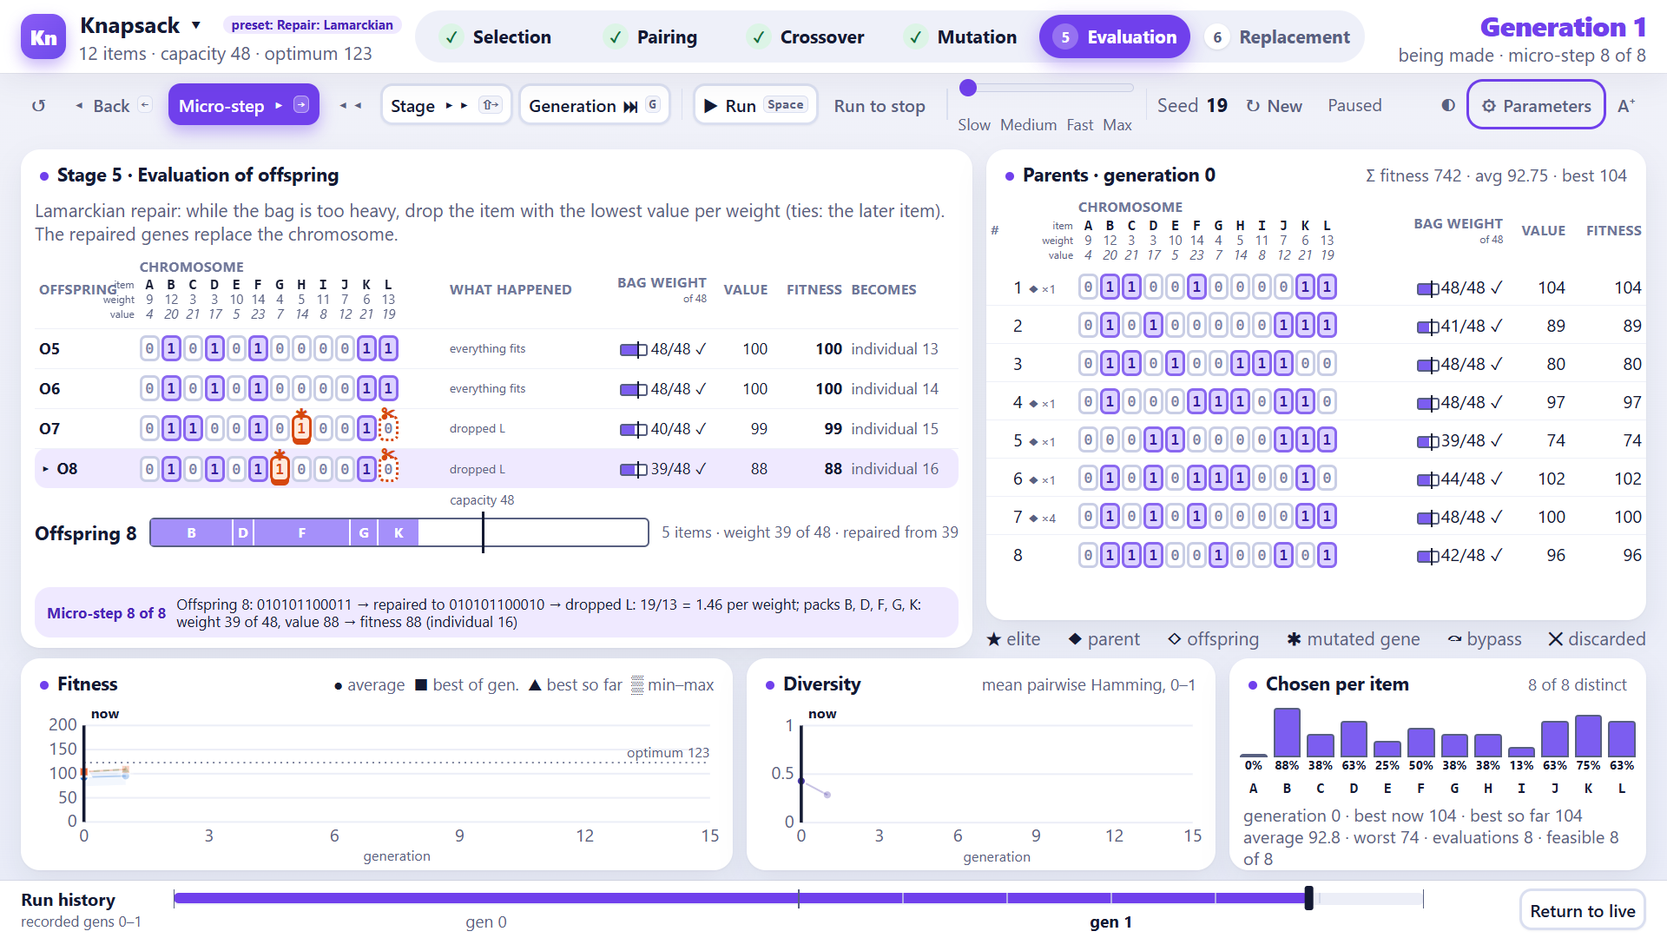
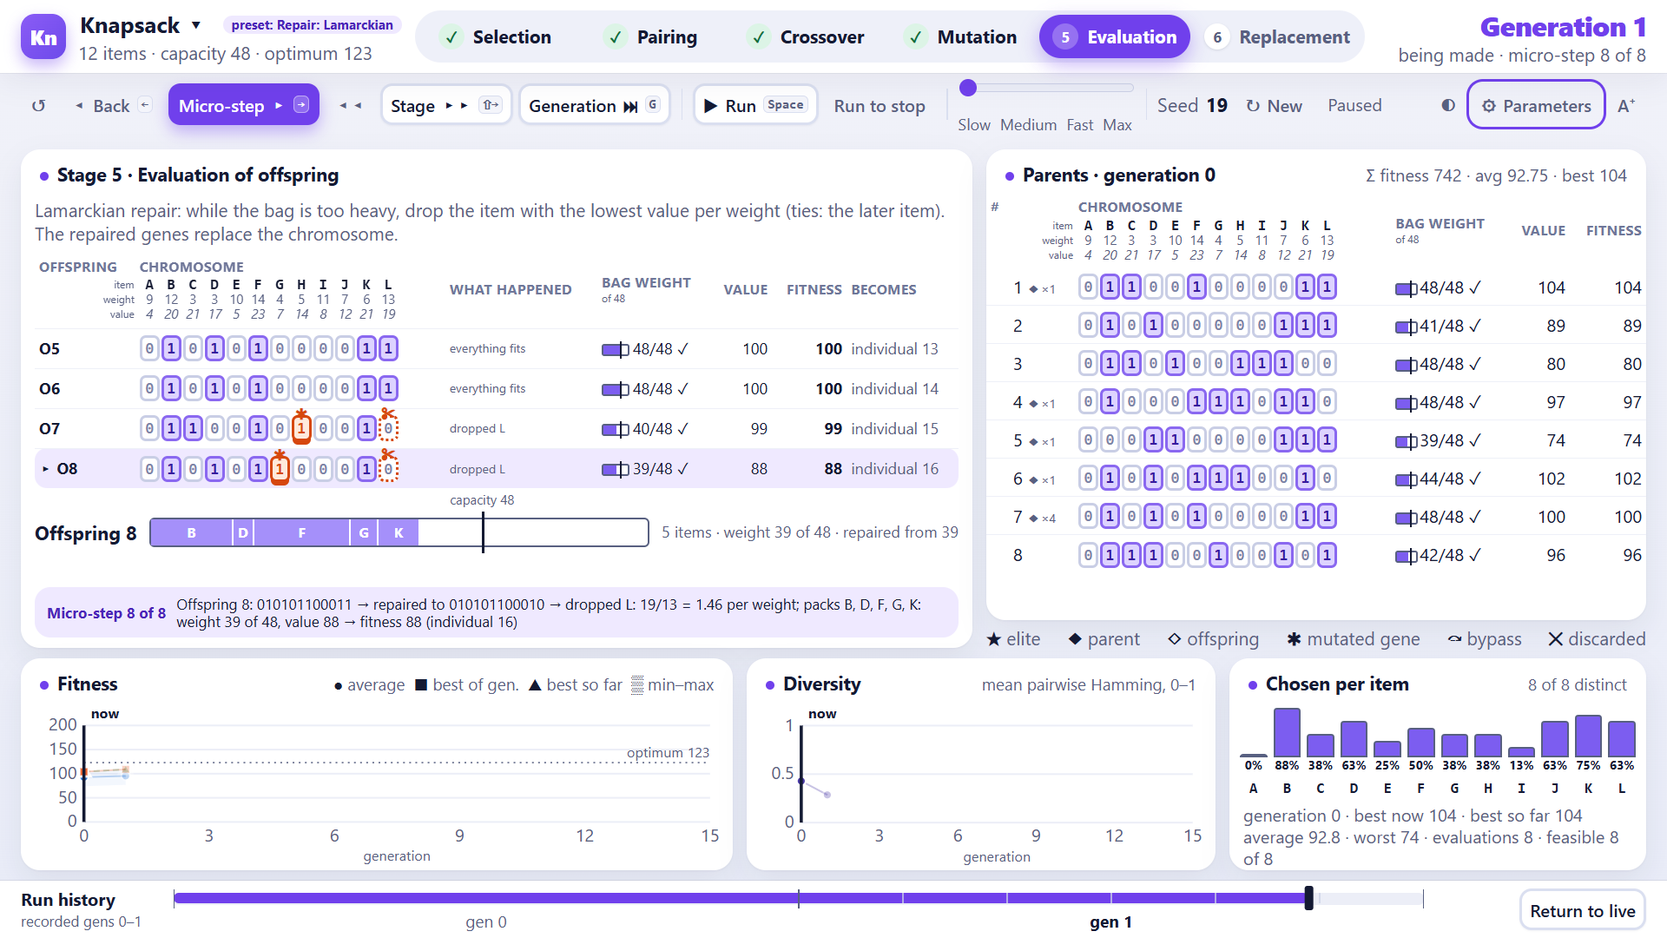
Projector fixes from the instructor's review: mutation card spacing, aligned weight meters, stacked bar scale, header overlap, wide tables with heavy overweight (milestone 3, ticket 17)

diff --git a/e2e/knapsack-a11y.spec.ts b/e2e/knapsack-a11y.spec.ts
@@ -10,10 +10,10 @@ const url = pathToFileURL(resolve('dist/index.html')).href;
 const entry = entryOf('knapsack')!;
 const base = entry.defaultOptions() as KnapsackOptions;
 
-const setupOf = (handling: Handling, o: { items?: number; params?: GaParams; seed?: number } = {}) => {
+const setupOf = (handling: Handling, o: { items?: number; params?: GaParams; seed?: number; rho?: number } = {}) => {
   const items = Array.from({ length: o.items ?? 12 }, (_, k) => base.items[k % 12]!);
   const total = items.reduce((t, i) => t + i.weight, 0);
-  const options: KnapsackOptions = { ...base, handling, items, capacity: o.items && o.items !== 12 ? Math.floor(total / 2) : base.capacity };
+  const options: KnapsackOptions = { ...base, handling, rho: o.rho ?? base.rho, items, capacity: o.items && o.items !== 12 ? Math.floor(total / 2) : base.capacity };
   const problem = entry.create(options);
   return { options, problem, setup: { problem, init: entry.defaults.init }, params: o.params ?? entry.defaults.params, seed: o.seed ?? 42 };
 };
@@ -206,6 +206,130 @@ for (const [width, height] of [
       for (let k = 0; k < 2 * 40; k++) {
         await page.keyboard.press('ArrowRight');
         expect(await outside(), `micro-step ${k + 1}`).toEqual([]);
+      }
+    });
+  }
+}
+
+type Box = { left: number; right: number; top: number; bottom: number };
+const meet = (a: Box, b: Box) => a.left < b.right && b.left < a.right && a.top < b.bottom && b.top < a.bottom;
+const gotoStage = async (page: Page, stage: number) => {
+  await page.keyboard.press('ArrowRight');
+  for (let k = 0; k < stage; k++) await page.keyboard.press('Shift+ArrowRight');
+};
+
+for (const [width, height] of [
+  [1920, 1080],
+  [1366, 768],
+] as const) {
+  test(`at ${width}×${height} in projector mode, a gene's ✱ in the mutation cards does not run into the draw printed under the gene above it`, async ({ page }) => {
+    await page.setViewportSize({ width, height });
+    const params: GaParams = { ...entry.defaults.params, mutation: { ...entry.defaults.params.mutation, probability: 0.3 } };
+    await open(page, setupOf('decoder', { params, seed: 4 }));
+    await page.getByRole('button', { name: 'Projector mode' }).click();
+    await gotoStage(page, 4);
+    await expect(page.getByRole('heading', { level: 2, name: /Mutation/ })).toBeVisible();
+    const clashes = await page.evaluate(() => {
+      const boxOf = (r: DOMRect) => ({ left: r.left, right: r.right, top: r.top, bottom: r.bottom });
+      const out: string[] = [];
+      let flips = 0;
+      for (const card of document.querySelectorAll('.mcard')) {
+        const unders = [...card.querySelectorAll('.under')].map((el) => boxOf(el.getBoundingClientRect()));
+        for (const bit of card.querySelectorAll('.bit.flip')) {
+          const r = bit.getBoundingClientRect();
+          const k = r.width / (bit as HTMLElement).offsetWidth; // the screen is scaled to fit the window
+          const star = { left: r.left + r.width / 2 - 9 * k, right: r.left + r.width / 2 + 9 * k, top: r.top - 18 * k, bottom: r.top };
+          if (!card.contains(bit) || unders.length === 0) continue;
+          flips++;
+          if (bit.closest('.crow')!.querySelector('.under') === null && unders.some((u) => u.left < star.right && star.left < u.right && u.top < star.bottom && star.top < u.bottom)) out.push(`${card.getAttribute('data-offspring')}`);
+        }
+      }
+      return { out, flips };
+    });
+    expect(clashes.flips).toBeGreaterThan(0);
+    expect(clashes.out).toEqual([]);
+  });
+
+  test(`at ${width}×${height}, the weight meters in the population table line up whatever the text beside them says`, async ({ page }) => {
+    await page.setViewportSize({ width, height });
+    await open(page, setupOf('penalty', { rho: 0, seed: 9 }));
+    await page.getByRole('button', { name: 'Projector mode' }).click();
+    for (let g = 0; g < 8; g++) await page.keyboard.press('g');
+    const lefts = await page.locator('.tablewrap tbody tr [data-col="bag weight"] .capbar').evaluateAll((els) => els.map((el) => Math.round(el.getBoundingClientRect().left)));
+    const texts = await page.locator('.tablewrap tbody tr [data-col="bag weight"]').allTextContents();
+    expect(lefts.length).toBe(8);
+    expect(new Set(texts.map((t) => t.trim().length)).size, 'the test needs texts of different lengths').toBeGreaterThan(1);
+    expect(new Set(lefts).size).toBe(1);
+  });
+
+  test(`at ${width}×${height}, with ρ = 0 and a bag of 80 against a capacity of 48, the stacked bar stays inside its track and clear of its caption`, async ({ page }) => {
+    await page.setViewportSize({ width, height });
+    const chromosomes = ['111101111011', '111111111111', '011000000000'];
+    const s = setupOf('penalty', { rho: 0 });
+    await page.goto('about:blank');
+    await page.goto(url + encodeConfig(configOf({ ...s.setup, init: { kind: 'explicit', chromosomes } }, s.params, 3, 'knapsack', s.options)));
+    await page.getByRole('button', { name: 'Projector mode' }).click();
+    await gotoStage(page, 4);
+    const seen: number[] = [];
+    for (let k = 0; k < 8; k++) {
+      await page.keyboard.press('ArrowRight');
+      const geometry = await page.evaluate(() => {
+        const bar = document.querySelector('.bigbar');
+        if (!bar) return null;
+        const track = bar.getBoundingClientRect();
+        const segs = [...bar.querySelectorAll('.seg')].map((el) => el.getBoundingClientRect());
+        const caption = document.querySelector('.bagwrap .legend2')!.getBoundingClientRect();
+        return { overrun: Math.max(0, ...segs.map((r) => r.right - track.right)), captionClear: caption.left >= track.right - 1 };
+      });
+      if (!geometry) continue;
+      seen.push(Number(await page.locator('[data-testid="bag-bar"]').getAttribute('data-weight')));
+      expect(geometry.overrun).toBeLessThanOrEqual(1);
+      expect(geometry.captionClear).toBe(true);
+    }
+    expect(Math.max(...seen), 'the test needs a bag heavier than 72').toBeGreaterThan(72);
+  });
+
+  test(`at ${width}×${height}, in the evaluation table the first column's heading does not sit on the item row's labels`, async ({ page }) => {
+    await page.setViewportSize({ width, height });
+    await open(page, setupOf('repair-lamarckian', { seed: 19 }));
+    await page.getByRole('button', { name: 'Projector mode' }).click();
+    await gotoStage(page, 5);
+    await expect(page.getByRole('heading', { level: 2, name: /Evaluation/ })).toBeVisible();
+    const boxes = await page.evaluate(() => {
+      const th = document.querySelector('.etable thead th:first-child')!;
+      const range = document.createRange();
+      range.selectNodeContents(th.firstChild!);
+      const box = (r: DOMRect) => ({ left: r.left, right: r.right, top: r.top, bottom: r.bottom });
+      return { heading: box(range.getBoundingClientRect()), labels: [...document.querySelectorAll('.etable .itemhdr .lbl i')].map((el) => box(el.getBoundingClientRect())) };
+    });
+    expect(boxes.labels.length).toBe(3);
+    for (const label of boxes.labels) expect(meet(boxes.heading, label), 'heading and a label overlap').toBe(false);
+  });
+}
+
+for (const [width, height] of [
+  [1920, 1080],
+  [1366, 768],
+] as const) {
+  for (const [handling, items] of [['penalty', 12] as const, ['penalty', 20] as const]) {
+    test(`at ${width}×${height} in projector mode, ${handling} with ρ = 0 and ${items} items, where nearly every bag is far overweight: no table is wider than its panel at any stage of eight generations`, async ({ page }) => {
+      await page.setViewportSize({ width, height });
+      await open(page, setupOf(handling, { items, rho: 0, seed: 9 }));
+      await page.getByRole('button', { name: 'Projector mode' }).click();
+      const wide = () =>
+        page.evaluate(() =>
+          [...document.querySelectorAll('.tablewrap, .mwrap')]
+            .filter((el) => el.scrollWidth > el.clientWidth + 1 || [...el.querySelectorAll('th, td')].some((cell) => cell.getBoundingClientRect().right > el.getBoundingClientRect().right + 1))
+            .map((el) => `${el.className} ${el.scrollWidth}>${el.clientWidth}`),
+        );
+      for (let g = 0; g < 8; g++) {
+        await page.keyboard.press('g');
+        expect(await wide(), `generation ${g + 1}`).toEqual([]);
+      }
+      await page.keyboard.press('ArrowRight');
+      for (let stage = 0; stage < 6; stage++) {
+        await page.keyboard.press('Shift+ArrowRight');
+        expect(await wide(), `stage ${stage + 1}`).toEqual([]);
       }
     });
   }

diff --git a/src/ui/StackedBag.svelte b/src/ui/StackedBag.svelte
@@ -8,19 +8,20 @@
    */
   let { bag, outcome, label, was }: { bag: BagInfo; outcome: BagOutcome; label: string; was?: number } = $props();
 
-  const scale = $derived(bag.capacity * 1.5);
+  // where a bag may be overweight the bar holds all the items, so the capacity mark stays put and nothing runs past the end
+  const scale = $derived(bag.mayExceed ? Math.max(bag.capacity * 1.5, bag.items.reduce((t, i) => t + i.weight, 0)) : bag.capacity * 1.5);
   const segments = $derived.by(() => {
     let x = 0;
     const out: { item: number; from: number; to: number; over: boolean }[] = [];
     outcome.packed.forEach((packed, i) => {
       if (!packed) return;
       const from = x;
-      const to = x + bag.items[i]!.weight;
+      const to = Math.min(x + bag.items[i]!.weight, scale);
       const inside = Math.min(to, bag.capacity) - from;
       if (inside > 0) out.push({ item: i, from, to: from + inside, over: false });
       const outside = to - Math.max(from, bag.capacity);
       if (outside > 0) out.push({ item: i, from: Math.max(from, bag.capacity), to, over: true });
-      x = to;
+      x += bag.items[i]!.weight;
     });
     return out;
   });
@@ -37,7 +38,6 @@
     <span class="captxt" style="left:{(bag.capacity / scale) * 100}%">capacity {bag.capacity}</span>
   </div>
   <span class="legend2">
-    {letters.length === 0 ? 'nothing packed' : `${letters.length} ${letters.length === 1 ? 'item' : 'items'}`} · weight {outcome.weight} of {bag.capacity}{#if outcome.excess > 0}
-      · <b>{outcome.excess} over (hatched)</b>{/if}{#if was !== undefined}{' · '}repaired from {was}{/if}
+    {letters.length === 0 ? 'nothing packed' : `${letters.length} ${letters.length === 1 ? 'item' : 'items'}`} · weight {outcome.weight} of {bag.capacity}{#if outcome.excess > 0}{' · '}<b>{outcome.excess} over (hatched)</b>{/if}{#if was !== undefined}{' · '}repaired from {was}{/if}
   </span>
 </div>

diff --git a/src/ui/app.css b/src/ui/app.css
@@ -661,7 +661,7 @@ table.tight .capbar { display:none; }
 .itemrow.dense b { font-size:13px; }
 .itemrow.dense u, .itemrow.dense s { font-size:11px; }
 .pcard .parent { flex-wrap:wrap; }
-.tablewrap:has(.bit.dense) th, .tablewrap:has(.bit.dense) td { padding-left:3px; padding-right:3px; }
+.tablewrap:has(.bit.dense) th, .tablewrap:has(.bit.dense) td { padding-left:2px; padding-right:2px; }
 .etable:has(.bit.dense) th, .etable:has(.bit.dense) td { padding-left:3px; padding-right:3px; }
 .tablewrap:has(.parentmark) .capbar { width:26px; }
 .tablewrap .parentmark { margin-left:3px; font-size:14px; }
@@ -673,3 +673,15 @@ table.tight .capbar { display:none; }
 .etable:has(.bit.dense) .capbar { display:none; }
 .etable:has(.bit.dense) td.why { font-size:13px; }
 .etable:has(.bit.dense) td[data-col="id"] { font-size:13px; }
+
+/* the weight column: the meter always starts at the same place, whatever the text after it says ("54/48 ✗ +6" is shorter than "80/48 ✗ +32") */
+table:not(.tight) th.meter, table:not(.tight) td.meter { text-align:left; }
+/* the ✱ over a mutated gene in the result row needs the room the draw printed under the gene above would otherwise take */
+.mcard .crow.res { margin-top:20px; }
+/* the first heading of a table with the item row: at the top, clear of the item / weight / value labels beside the cells */
+table:has(.itemhdr) thead th:first-child { vertical-align:top; }
+/* parent marks and a penalty column together leave no room for the small bars (the figures beside them say the same) */
+.tablewrap:has(.parentmark):has([data-col="penalty"]) .capbar { display:none; }
+/* twenty items and a heavy overweight: the long "over by 120 (0 × 120)" may wrap rather than push the table out of its panel */
+.etable:has(.bit.dense) td.why { white-space:normal; max-width:130px; line-height:1.15; }
+.etable:has(.bit.dense) th.why { white-space:normal; width:90px; }

diff --git a/src/ui/knapsack-bars.test.ts b/src/ui/knapsack-bars.test.ts
@@ -65,6 +65,23 @@ describe('the stacked bag', () => {
     expect(attr(markup, 'data-excess')).toBe(1);
   });
 
+  test('where overweight bags are allowed the bar is as long as all the items together, so even the heaviest bag stays inside it and the capacity mark never moves', () => {
+    const roomy: BagInfo = { ...bag, mayExceed: true };
+    const total = builtInKnapsack.items.reduce((t, i) => t + i.weight, 0); // 97
+    const markup = draw('ABCDEFGHIJKL', { bag: roomy }); // everything: weight 97, 49 over
+    const s = segments(markup);
+    expect(s.map((x) => x.left + x.width).reduce((x, y) => Math.max(x, y))).toBeCloseTo(100, 6);
+    expect(s.find((x) => x.over)!.left).toBeCloseTo((48 / total) * 100, 6);
+    expect(markup).toContain(`left:${((48 / total) * 100).toString().slice(0, 6)}`);
+    for (const letters of ['B', 'ABEFG', 'ACDFGHIKL']) expect(draw(letters, { bag: roomy })).toContain(`left:${((48 / total) * 100).toString().slice(0, 6)}`);
+  });
+
+  test('where they are not, a bag can only be as heavy as the capacity and the bar stays one and a half times the capacity; a bag heavier than the bar is cut off at its end rather than drawn outside it', () => {
+    const heavy = draw('ABCDEFGHIJKL'); // the bag of this test allows no excess, but is given one: the bar must not be overrun
+    expect(Math.max(...segments(heavy).map((x) => x.left + x.width))).toBeLessThanOrEqual(100.000001);
+    expect(draw('B')).toContain('left:66.66');
+  });
+
   test('says what it is in words: how many items, the weight against the capacity, and what repair started from', () => {
     expect(draw('')).toContain('nothing packed');
     expect(draw('B')).toContain('1 item');

diff --git a/src/ui/PopulationPanel.svelte b/src/ui/PopulationPanel.svelte
@@ -36,7 +36,7 @@
           <th scope="col">#</th>
           <th scope="col">Chromosome<TargetRow /><ItemRow /></th>
           {#each columns as { column } (column.header)}
-            <th scope="col" class="num">{column.header}{#if column.note}<span class="colnote">{column.note}</span>{/if}</th>
+            <th scope="col" class="num" class:meter={column.meter}>{column.header}{#if column.note}<span class="colnote">{column.note}</span>{/if}</th>
           {/each}
           {#if showSelection}
             <th scope="col" class="num">Weight</th>
@@ -51,7 +51,7 @@
             <td data-col="id"><span class="sym" title={row.elite ? 'Elite: carried over unchanged' : undefined}>{row.elite ? '★' : ''}</span>{row.id}{#if knapsack && row.parentCount}<span class="parentmark" title="selected as a parent {row.parentCount} {row.parentCount === 1 ? 'time' : 'times'}" data-col="parent"><span class="sym" aria-hidden="true">◆</span>×{row.parentCount}</span>{/if}</td>
             <td><Bits chromosome={row.chromosome} small /></td>
             {#each columns as { column, c } (column.header)}
-              <td class="num" data-col={column.header.toLowerCase()}>{#if row.meters?.[c]}<CapacityBar value={row.meters[c]!.value} limit={row.meters[c]!.limit} /> {/if}{row.cells[c]}</td>
+              <td class="num" class:meter={row.meters?.[c]} data-col={column.header.toLowerCase()}>{#if row.meters?.[c]}<CapacityBar value={row.meters[c]!.value} limit={row.meters[c]!.limit} /> {/if}{row.cells[c]}</td>
             {/each}
             {#if showSelection}
               <td class="num" data-col="weight">{row.weight ?? '—'}</td>

diff --git a/src/ui/EvaluationView.svelte b/src/ui/EvaluationView.svelte
@@ -27,9 +27,9 @@
         <tr>
           <th scope="col">Offspring</th>
           <th scope="col">Chromosome<TargetRow /><ItemRow /></th>
-          {#if model.explains}<th scope="col">What happened</th>{/if}
-          {#each model.columns as column (column.header)}
-            <th scope="col" class="num">{column.header}{#if column.note}<span class="colnote">{column.note}</span>{/if}</th>
+          {#if model.explains}<th scope="col" class="why">What happened</th>{/if}
+          {#each model.columns as column, c (column.header)}
+            <th scope="col" class="num" class:meter={model.rows.some((r) => r.meters?.[c])}>{column.header}{#if column.note}<span class="colnote">{column.note}</span>{/if}</th>
           {/each}
           <th scope="col">Becomes</th>
         </tr>
@@ -42,7 +42,7 @@
             {#if row.revealed}
               {#if model.explains}<td class="why" data-col="what happened">{row.why?.summary}</td>{/if}
               {#each model.columns as column, c (column.header)}
-                <td class="num" class:strong={c === model.columns.length - 1} data-col={column.header.toLowerCase()}>{#if row.meters?.[c]}<CapacityBar value={row.meters[c]!.value} limit={row.meters[c]!.limit} /> {/if}{row.cells?.[c]}</td>
+                <td class="num" class:meter={row.meters?.[c]} class:strong={c === model.columns.length - 1} data-col={column.header.toLowerCase()}>{#if row.meters?.[c]}<CapacityBar value={row.meters[c]!.value} limit={row.meters[c]!.limit} /> {/if}{row.cells?.[c]}</td>
               {/each}
               <td data-col="id">individual {row.id}</td>
             {:else}

diff --git a/src/ui/PopulationEditor.svelte b/src/ui/PopulationEditor.svelte
@@ -20,7 +20,7 @@
     bind:value={text}
   ></textarea>
   <table aria-label="Hand-edited population">
-    <thead><tr><th scope="col">#</th><th scope="col">Chromosome<ItemRow /></th>{#each problem.columns as column (column.header)}<th scope="col" class="num">{column.header}{#if column.note}<span class="colnote">{column.note}</span>{/if}</th>{/each}</tr></thead>
+    <thead><tr><th scope="col">#</th><th scope="col">Chromosome<ItemRow /></th>{#each problem.columns as column (column.header)}<th scope="col" class="num" class:meter={column.meter}>{column.header}{#if column.note}<span class="colnote">{column.note}</span>{/if}</th>{/each}</tr></thead>
     <tbody>
       {#each rows as row, k (k)}
         <tr class:bad={row.error !== undefined} data-row={k + 1}>
@@ -30,7 +30,7 @@
           {:else}
             <td><Bits chromosome={row.text} small /></td>
             {#each problem.columns as column, c (column.header)}
-              <td class="num" data-col={column.header.toLowerCase()}>{#if row.meters?.[c]}<CapacityBar value={row.meters[c]!.value} limit={row.meters[c]!.limit} /> {/if}{row.cells?.[c]}</td>
+              <td class="num" class:meter={row.meters?.[c]} data-col={column.header.toLowerCase()}>{#if row.meters?.[c]}<CapacityBar value={row.meters[c]!.value} limit={row.meters[c]!.limit} /> {/if}{row.cells?.[c]}</td>
             {/each}
           {/if}
         </tr>

diff --git a/src/ui/session.svelte.ts b/src/ui/session.svelte.ts
@@ -204,7 +204,7 @@ export function createSession(options: SessionOptions) {
     get bag(): BagInfo | undefined {
       void version;
       const p = run.setup.problem as Partial<KnapsackProblem>;
-      return p.outcomeOf && p.options ? { items: p.options.items, capacity: p.options.capacity, outcomeOf: p.outcomeOf.bind(p) } : undefined;
+      return p.outcomeOf && p.options ? { items: p.options.items, capacity: p.options.capacity, mayExceed: p.mayBeInfeasible === true, outcomeOf: p.outcomeOf.bind(p) } : undefined;
     },
     get problemEntry(): ProblemEntry {
       return entryOf(problemId)!;

diff --git a/e2e/app.spec.ts b/e2e/app.spec.ts
@@ -59,6 +59,7 @@ test('pressing Generation three times shows the engine’s population for genera
 });
 
 test('stepping by micro-step, by stage and by generation reaches the same screen', async ({ page, browser }) => {
+  test.slow(); // three browser pages and about a hundred key presses: over the default 20 s when the whole suite runs at once
   const reach = async (p: Page, step: string | RegExp) => {
     for (let n = 0; n < 200; n++) {
       if ((await title(p).textContent()) === 'Population · generation 2') return;

diff --git a/src/ui/bag-context.ts b/src/ui/bag-context.ts
@@ -11,6 +11,8 @@ export const bagContextKey = Symbol('knapsack');
 export interface BagInfo {
   readonly items: readonly KnapsackItem[];
   readonly capacity: number;
+  /** True when a chromosome's bag may weigh more than the capacity (the penalty method): bars then leave room for all the items. */
+  readonly mayExceed?: boolean;
   outcomeOf(chromosome: readonly number[]): BagOutcome;
 }
 

diff --git a/src/ui/MutationView.svelte b/src/ui/MutationView.svelte
@@ -41,7 +41,7 @@
             {#if !row.revealed}<span class="muted">not yet drawn</span>{/if}
           </div>
           {#if row.revealed}
-            <div class="crow">
+            <div class="crow res">
               <span class="who sub">result</span>
               <Bits chromosome={row.after!} small flipped={row.flipped} />
               {@render outcome(row)}

diff --git a/.scratch/milestone-3-knapsack/issues/17-rendered-review-m3.md b/.scratch/milestone-3-knapsack/issues/17-rendered-review-m3.md
@@ -1,6 +1,6 @@
 # 17 Rendered review and sign-off
 
-Status: awaiting instructor sign-off
+Status: awaiting instructor sign-off (second pass after review findings)
 Type: review (needs instructor)
 Blocked by: 14, 15, 16
 Spec: ../spec.md
@@ -46,3 +46,17 @@ The spec's "To decide" list now records the instance, the defaults and preset se
 ### For the instructor's walkthrough
 
 Open https://brokenpumpernickel.github.io/ea-playground/, choose Knapsack, switch on Projector mode, and step through one generation with the Micro-step button (especially stages 5 and 6 under Repair (Lamarckian) and Penalty). Report anything illegible from the back of the room, in particular the smaller narration line at the bottom of the stage panel. Issues you find will be filed as tickets in this folder.
+
+### Review findings from the instructor's first look at projector mode (fixed)
+
+Found with penalty ρ = 0, where most bags are far overweight; each was reproduced by a failing Playwright test first (`e2e/knapsack-a11y.spec.ts`, at 1920×1080 and 1366×768) and is fixed:
+
+1. **Mutation cards: the orange draw label ran into the ✱ of the gene below it.** The result row now has 20 px of room above it.
+2. **Population table: the weight meter of one row sat 20 px to the right of the others** (the cell was right-aligned, so a shorter text pushed the meter along). The weight column is now left-aligned in header and cells when it has meters, so every meter starts at the same place.
+3. **Evaluation: the stacked bar ran past the end of its track and over its caption** when a bag weighed more than 1.5 × the capacity (80 against 48 under ρ = 0). Where overweight bags are allowed (penalty) the bar is now as long as all the items together, so the capacity mark stays in one place and no bag can overrun it; for the other methods it is unchanged, and a segment past the end is cut off rather than drawn outside. (Unit tests in `knapsack-bars.test.ts`.)
+4. **Evaluation header: "OFFSPRING" sat on the item / weight / value labels.** The first heading is now top-aligned, above them.
+5. Found on the way, same cause (very overweight bags make the figures wider): the Parents table's Fitness column was clipped at 1920×1080 (small meters are now hidden when parent marks and a penalty column are both present; the figures say the same), and with 20 items the evaluation table was 6 px wider than its panel (tighter dense padding, "What happened" heading and text may wrap). A new test plays eight generations and every stage with ρ = 0, for 12 and 20 items, and requires every table to fit its panel.
+6. A missing space in "weight 71 of 48· 23 over (hatched)" (same in "repaired from").
+7. `app.spec.ts` "stepping by micro-step, by stage and by generation" timed out at 20 s whenever the whole suite ran at once; it is now marked slow (3× timeout). The test itself is unchanged.
+
+Rechecked: `npm run check` clean, 1233 unit tests, 289 Playwright tests, all passing. New screenshots: `1920-15-fix-mutation-cards.png`, `1920-16-fix-penalty-meters.png`, `1920-17-fix-penalty-stacked-bar.png`.
